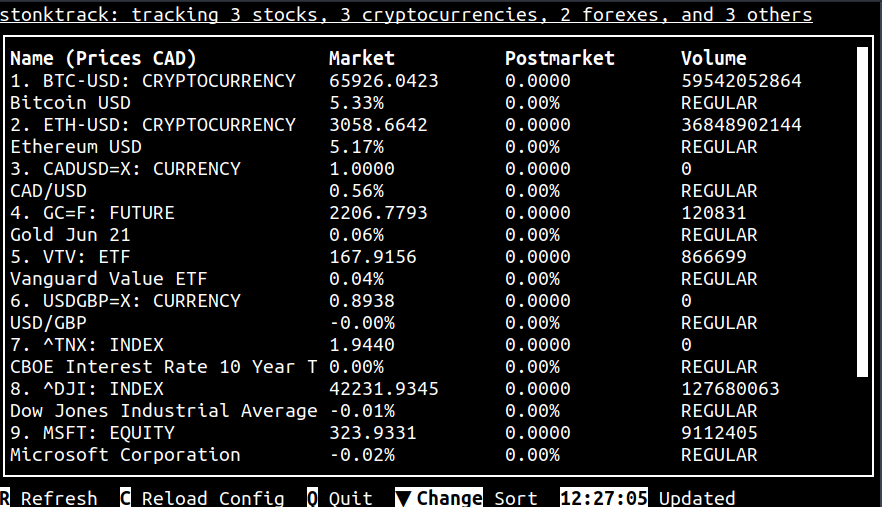
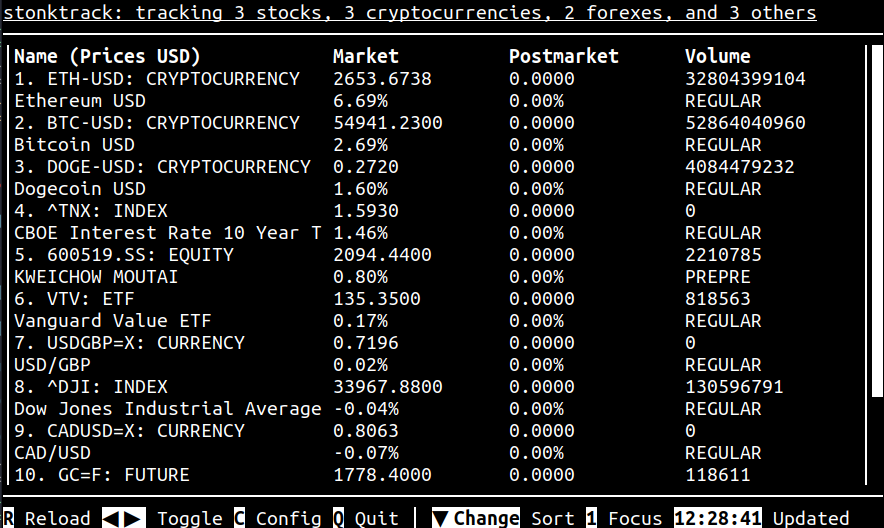
prepare focus for preview

diff --git a/stonktrack.py b/stonktrack.py
@@ -14,7 +14,7 @@ def fetch():
     quotes = []
     global data
     data = session.get(
-        f"https://query1.finance.yahoo.com/v7/finance/quote?fields=symbol,quoteType,regularMarketPrice,postMarketPrice,regularMarketVolume,shortName,regularMarketChangePercent,postMarketChangePercent,marketState&symbols={query}").json()["quoteResponse"]["result"]
+        f"https://query1.finance.yahoo.com/v7/finance/quote?fields=symbol,quoteType,regularMarketPrice,postMarketPrice,regularMarketVolume,shortName,longName,regularMarketChangePercent,postMarketChangePercent,marketState&symbols={query}").json()["quoteResponse"]["result"]
 
     if config["prices"] == "USD":
         rate = 1
@@ -96,12 +96,11 @@ def fetch():
 
 def focus_fetch():
     focus = []
-    focus_query = data[focus_index]["symbol"]
-    focus_data = session.get(
-        f"https://query1.finance.yahoo.com/v7/finance/quote?symbols={focus_query}").json()["quoteResponse"]["result"][0]
+    focus_data = data[focus_index]  # use preexisting query for speed
 
     focus.append(
-        ("title", f"{focus_data['shortName']}: {focus_data['symbol']}"))
+        ("title",
+         f"{focus_index + 1}. {focus_data['symbol']}: {focus_data['longName'] if 'longName' in focus_data else focus_data['shortName']} ({focus_data['quoteType']}) (Data from {focus_data['fullExchangeName']})"))
     return focus
 
 
@@ -151,7 +150,8 @@ def refresh(_loop, _data):
     global last_update
     last_update = time.strftime("%H:%M:%S", time.localtime())
     body.base_widget.contents[0][0].base_widget.set_text(fetch())
-    body.base_widget.contents[2][0].base_widget.set_text(focus_fetch())
+    if config["focus"]:
+        body.base_widget.contents[2][0].base_widget.set_text(focus_fetch())
     footer.base_widget.contents[1][0].base_widget.set_text(
         [("key", "R"),
          ("text", " Reload "),
@@ -223,15 +223,20 @@ session = Session()
 
 header = f"stonktrack: tracking {len(config['stocks'])} {'stocks' if len(config['stocks']) != 1 else 'stock'}, {len(config['cryptos'])} {'cryptocurrencies' if len(config['cryptos']) != 1 else 'cryptocurrency'}, {len(config['forexes'])} {'forexes' if len(config['forexes']) != 1 else 'forex'}, and {len(config['others'])} {'others' if len(config['others']) != 1 else 'other'}"
 header = urwid.Pile([urwid.Text([("title", header)]), urwid.Divider("─")])
-body = urwid.Pile(
-    [urwid.LineBox(
-        urwid.Text([("text", "Loading prices...")]),
-        tline="", bline=""),
-     urwid.Divider("─"),
-     urwid.LineBox(
-         urwid.Text([("text", "Loading focus...")]),
-         tline="", bline="")])  # start with first stock, allow users to toggle the focus with left/right arrow keys
-body = ScrollBar(Scrollable(body))
+if config["focus"]:
+    body = urwid.Pile(
+        [urwid.LineBox(
+            urwid.Text([("text", "Loading prices...")]),
+            tline="", bline=""),
+         urwid.Divider("─"),
+         urwid.LineBox(
+             urwid.Text([("text", "Loading focus...")]),
+             tline="", bline="")])
+else:
+    body = urwid.Pile(
+        [urwid.LineBox(
+            urwid.Text([("text", "Loading prices...")]),
+            tline="", bline="")])
 footer = urwid.Pile([urwid.Divider("─"), urwid.Text(
     [("key", "R"),
      ("text", " Reload "),
@@ -248,7 +253,8 @@ footer = urwid.Pile([urwid.Divider("─"), urwid.Text(
      ("text", " Focus "),
      ("key", last_update),
      ("text", " Updated")])])
-layout = urwid.Frame(header=header, body=body,
+
+layout = urwid.Frame(header=header, body=ScrollBar(Scrollable(body)),
                      footer=footer, focus_part="body")
 loop = urwid.MainLoop(
     layout, palette, unhandled_input=keystroke, handle_mouse=False)

diff --git a/README.md b/README.md
@@ -28,24 +28,21 @@ $ python3 stonktrack.py
 ```
 
 ### Usage
-Stonktrack is configured through a single configuration file named `config.yml`. Configuration options are explained in [CONFIG.md](CONFIG.md), and a sample configuration file is provided in [config.yml](config.yml).
+Stonktrack is configured through a single configuration file named `config.yml`. Configuration options are explained in [CONFIG.md](https://github.com/slightlyskepticalpotat/stonktrack/blob/main/CONFIG.md), and a sample configuration file is provided in [config.yml](https://github.com/slightlyskepticalpotat/stonktrack/blob/main/config.yml).
 
 ## Screenshots
+More screenshots of various options are available in [/screenshots](https://github.com/slightlyskepticalpotat/stonktrack/tree/main/screenshots).
+
 ![stonktrack](screenshots/stonktrack.png)
 > Normal stonktrack, with colour and a scrollbar
 
 ---
 
-![stonktrack-phone](screenshots/stonktrack-phone.png)
-> Stonktrack even works on mobile with Termux
-
----
-
 ![stonktrack-bw](screenshots/stonktrack-bw.png)
-> Monochrome mode isn't very colourful
+> Monochrome mode is less distracting for some
 
 ## Contributing
 Bug reports, forks, and pull requests are all welcome. Feel free to open an issue!
 
 ## Licence
-This project is licensed under the GNU Affero General Public License v3.0. For more information, please refer to [LICENSE.md](LICENSE.md).
+This project is licensed under the GNU Affero General Public License v3.0, and makes use of other open-source libraries. For more information, please refer to our [LICENSE](https://github.com/slightlyskepticalpotat/stonktrack/blob/main/LICENSE).

diff --git a/CONFIG.md b/CONFIG.md
@@ -19,6 +19,8 @@ sort - Key to sort listings by. Can be alpha (alphabetical by name), change (tot
 
 reverse - Whether to reverse the default ascending sort order. True is recommended for most sorting keys.
 
+focus - Whether to show the "focus" tab at the bottom that focuses on a specific investment. True is recommended.
+
 prices - Currency that the prices are displayed in. Most of the ISO 4217 codes should work, but anything other than USD will be converted at market rates.
 
 ### Optional
